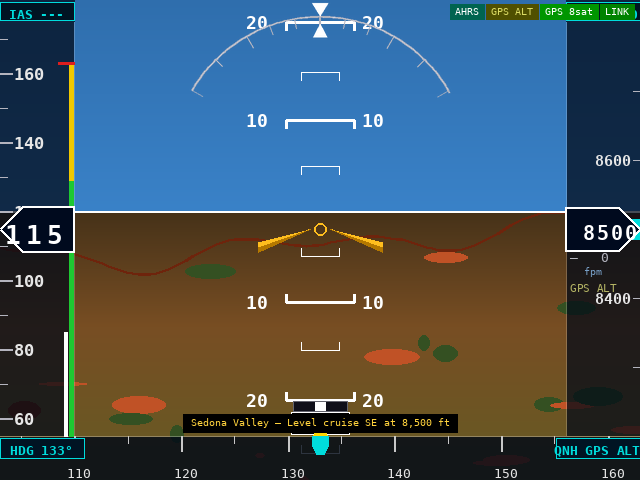
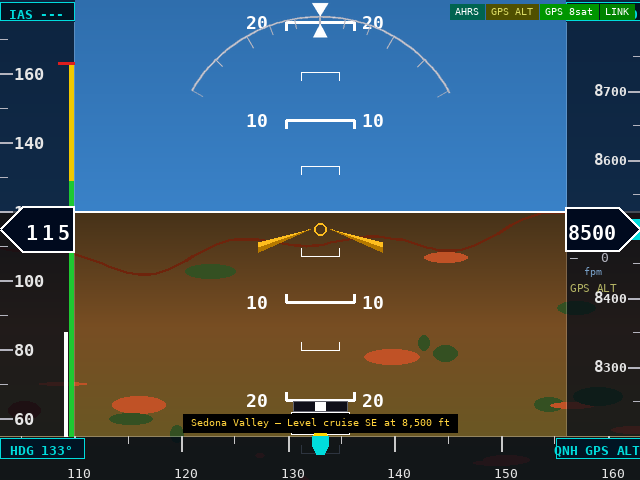
Fix readout drums, alt tape ticks, and label sizing
- Speed drum: repositioned to flat part of pentagon box (x=pd+2),
  width SPD_W-pd-4 so text never overflows the pointed corners
- Alt drum: same fix, 5→4 digit columns, both drums now font_sz=20
- Alt tape: 100ft major ticks (with labels) + 50ft minor ticks,
  matching the density and size of the airspeed tape
- Alt tape labels: thousands digit font_sz=16, hundreds+ font_sz=13
  giving subtle but visible size progression (per pilot convention)
- Applied to both preview_640x480.py and pi_display/pfd.py

https://claude.ai/code/session_017SH8gTHM3ctk1qfSPqffyG

diff --git a/pi_display/pfd.py b/pi_display/pfd.py
@@ -538,8 +538,8 @@ def draw_speed_tape(surf, speed, hdg_bug_spd=None):
     pygame.gfxdraw.filled_polygon(surf, pts, (0, 10, 30))
     pygame.gfxdraw.aapolygon(surf, pts, WHITE)
     spd_col = RED if speed > VNE else (YELLOW if speed > VNO else WHITE)
-    # Rolling drum: 3 digits, 22px/cell, 26pt bold
-    _rolling_drum(surf, SPD_X + 3, TAPE_MID - 17, 64, 34, speed, 3, spd_col, 26)
+    # Drum starts at flat part of box (SPD_X+pd), same font_sz as alt
+    _rolling_drum(surf, SPD_X + pd + 2, TAPE_MID - 17, SPD_W - pd - 4, 34, speed, 3, spd_col, 20)
 
     # IAS bug button — top strip of speed tape
     _cyan_box(surf, "IAS", "---", x=SPD_X, y=2, w=SPD_W, h=18)
@@ -556,22 +556,33 @@ def draw_alt_tape(surf, alt, vspeed, baro_hpa, baro_src, alt_bug=None):
 
     def ay2(ft): return alt_y(ft, alt)
 
-    # Tick marks and numbers
-    base = int(round(alt / 100)) * 100
-    for ft in range(base - 400, base + 400, 100):
+    # Tick marks and numbers — every 50ft minor, every 100ft major with label
+    base = int(round(alt / 50)) * 50
+    for ft in range(base - 450, base + 450, 50):
         fy = ay2(ft)
-        if not (TAPE_TOP + 12 < fy < TAPE_BOT - 12):
+        if not (TAPE_TOP + 8 < fy < TAPE_BOT - 8):
             continue
-        major = (ft % 500 == 0)
+        major = (ft % 100 == 0)
         tl = 12 if major else 7
         pygame.draw.line(surf, LTGREY,
                          (ALT_X + ALT_W - tl, fy), (ALT_X + ALT_W, fy),
                          2 if major else 1)
-        if ft % 200 == 0:
-            lbl = str(ft)
-            lw = _get_font(15, bold=True).size(lbl)[0]
-            _text(surf, lbl, 15, (230, 230, 230), bold=True,
-                  x=ALT_X + ALT_W - tl - 2 - lw, y=fy - 8)
+        if major:
+            s = str(ft)
+            if ft >= 1000:
+                # Thousands digit slightly larger than hundreds+
+                f_l = _get_font(16, bold=True)
+                f_s = _get_font(13, bold=True)
+                thou, rest = s[:1], s[1:]
+                tw_l = f_l.size(thou)[0]
+                tw_s = f_s.size(rest)[0]
+                x0 = ALT_X + ALT_W - tl - 2 - tw_l - tw_s
+                _text(surf, thou, 16, (230, 230, 230), bold=True, x=x0,        y=fy - 10)
+                _text(surf, rest, 13, (230, 230, 230), bold=True, x=x0 + tw_l, y=fy -  8)
+            else:
+                lw = _get_font(13, bold=True).size(s)[0]
+                _text(surf, s, 13, (230, 230, 230), bold=True,
+                      x=ALT_X + ALT_W - tl - 2 - lw, y=fy - 8)
 
     # Altitude bug
     if alt_bug is not None:
@@ -595,8 +606,8 @@ def draw_alt_tape(surf, alt, vspeed, baro_hpa, baro_src, alt_bug=None):
            (ALT_X + ALT_W - pd, by + bh), (ALT_X, by + bh)]
     pygame.gfxdraw.filled_polygon(surf, pts, (0, 10, 30))
     pygame.gfxdraw.aapolygon(surf, pts, WHITE)
-    # Rolling drum: 5 digits, 14px/cell, 20pt bold, no leading zeros
-    _rolling_drum(surf, ALT_X + 2, TAPE_MID - 17, 70, 34, alt, 5, WHITE, 20,
+    # Rolling drum: 4 digits, fits in flat part of box, same font_sz as speed
+    _rolling_drum(surf, ALT_X + 2, TAPE_MID - 17, ALT_W - pd - 4, 34, alt, 4, WHITE, 20,
                   suppress_leading=True)
 
     # VSI (vertical speed)

diff --git a/tools/preview_640x480.py b/tools/preview_640x480.py
@@ -297,7 +297,8 @@ def draw_scene(roll, pitch, hdg, alt, speed, vspeed, ay,
     draw.polygon(pts, fill=(0, 10, 30))
     draw.line(pts + [pts[0]], fill=WHITE, width=2)
     spd_col = RED if speed > VNE else (YELLOW if speed > VNO else WHITE)
-    rolling_drum(img, SPD_X+3, TAPE_MID-17, 64, 34, speed, 3, spd_col, 26)
+    # Drum starts at flat part of box (SPD_X+pd), same font_sz as alt
+    rolling_drum(img, SPD_X+pd+2, TAPE_MID-17, SPD_W-pd-4, 34, speed, 3, spd_col, 20)
 
     # IAS bug button — top strip of speed tape
     cyan_box("IAS", "---", SPD_X, 2, bw=SPD_W, bh=18)
@@ -308,20 +309,29 @@ def draw_scene(roll, pitch, hdg, alt, speed, vspeed, ay,
     # ALT bug button — top strip of alt tape
     cyan_box("ALT", f"{round(alt_bug):5d}", ALT_X, 2, bw=ALT_W, bh=18)
 
-    # Tick marks + labels
-    base_a = round(alt / 100) * 100
-    for ft in range(base_a - 400, base_a + 400, 100):
+    # Tick marks + labels — every 50ft minor, every 100ft major with label
+    base_a = round(alt / 50) * 50
+    for ft in range(base_a - 450, base_a + 450, 50):
         fy = alt_y(ft)
-        if not (TAPE_TOP + 12 < fy < TAPE_BOT - 12): continue
-        major = (ft % 500 == 0)
+        if not (TAPE_TOP + 8 < fy < TAPE_BOT - 8): continue
+        major = (ft % 100 == 0)
         tl = 12 if major else 7
         draw.line([(ALT_X+ALT_W-tl, fy), (ALT_X+ALT_W, fy)],
                   fill=LTGREY, width=2 if major else 1)
-        if ft % 200 == 0:
-            f15 = fnt(15, bold=True)
-            tw = int(f15.getlength(str(ft)))
-            draw.text((ALT_X+ALT_W-tl-2-tw, fy-8), str(ft),
-                      fill=(230,230,230), font=f15)
+        if major:
+            s = str(ft)
+            if ft >= 1000:
+                # Thousands digit slightly larger than hundreds
+                f_l = fnt(16, bold=True);  f_s = fnt(13, bold=True)
+                thou = s[:1];  rest = s[1:]
+                tw_l = int(f_l.getlength(thou));  tw_s = int(f_s.getlength(rest))
+                x0 = ALT_X + ALT_W - tl - 2 - tw_l - tw_s
+                draw.text((x0,        fy - 10), thou, fill=(230, 230, 230), font=f_l)
+                draw.text((x0+tw_l,   fy -  8), rest, fill=(230, 230, 230), font=f_s)
+            else:
+                f_s = fnt(13, bold=True)
+                tw = int(f_s.getlength(s))
+                draw.text((ALT_X+ALT_W-tl-2-tw, fy-8), s, fill=(230,230,230), font=f_s)
 
     # Altitude bug — on outer (right/screen-edge) side
     aby = alt_y(alt_bug)
@@ -337,8 +347,8 @@ def draw_scene(roll, pitch, hdg, alt, speed, vspeed, ay,
            (ALT_X+ALT_W-pd, by+bh), (ALT_X, by+bh)]
     draw.polygon(pts, fill=(0, 10, 30))
     draw.line(pts + [pts[0]], fill=WHITE, width=2)
-    # Rolling drum: 5 digits, no leading zeros
-    rolling_drum(img, ALT_X+2, TAPE_MID-17, 70, 34, alt, 5, WHITE, 20,
+    # Rolling drum: 4 digits, fits in flat part of box, same font_sz as speed
+    rolling_drum(img, ALT_X+2, TAPE_MID-17, ALT_W-pd-4, 34, alt, 4, WHITE, 20,
                  suppress_leading=True)
 
     # VSI
